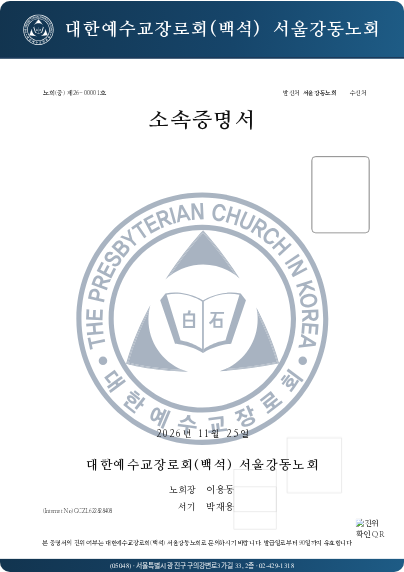
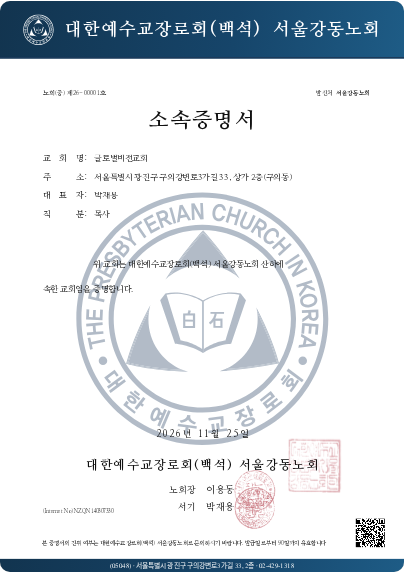
진위 확인 QR 두 배(30mm), 캐시 v79

diff --git a/index.html b/index.html
@@ -12,7 +12,7 @@
 <meta name="mobile-web-app-capable" content="yes">
 <meta name="apple-mobile-web-app-capable" content="yes">
 <meta name="apple-mobile-web-app-title" content="노회 문서">
-<link rel="stylesheet" href="assets/app.css?v=78">
+<link rel="stylesheet" href="assets/app.css?v=79">
 </head>
 <body>
 
@@ -979,11 +979,11 @@
 
 <div class="toast" id="toast" hidden></div>
 
-<script src="vendor/qrcode.js?v=78"></script>
-<script src="vendor/html2canvas.min.js?v=78"></script>
-<script src="assets/xlsx.js?v=78"></script>
-<script src="assets/app.js?v=78"></script>
-<script src="assets/notice.js?v=78"></script>
-<script src="assets/lock.js?v=78"></script>
+<script src="vendor/qrcode.js?v=79"></script>
+<script src="vendor/html2canvas.min.js?v=79"></script>
+<script src="assets/xlsx.js?v=79"></script>
+<script src="assets/app.js?v=79"></script>
+<script src="assets/notice.js?v=79"></script>
+<script src="assets/lock.js?v=79"></script>
 </body>
 </html>

diff --git a/assets/app.css b/assets/app.css
@@ -286,7 +286,7 @@ main{padding:14px 14px 0}
 .p-qrrow{display:flex;align-items:flex-end;gap:4mm;margin:2.4mm 10mm 0 22mm}
 .p-qrrow .note{margin:0;flex:1 1 auto;min-width:0;font-size:3.1mm;letter-spacing:.02mm;line-height:1.5;color:#1b1b1b;
   white-space:nowrap}
-.p-qr{width:15mm;height:15mm;flex:0 0 15mm;image-rendering:pixelated;display:block}
+.p-qr{width:30mm;height:30mm;flex:0 0 30mm;image-rendering:pixelated;display:block}
 .p-qr[hidden]{display:none}
 
 /* ---------------- 화면 쪽 조작 요소(직인·워터마크 고르기) ---------------- */

diff --git a/sw.js b/sw.js
@@ -3,7 +3,7 @@
    운동일지 앱(/Church/)과는 다른 사이트이므로 그쪽 캐시·화면은 건드리지 않는다.
    네트워크가 있으면 새 파일을 먼저 받아 두고, 없으면 받아 둔 사본으로 연다. */
 
-const CACHE = 'certificate-standalone-v78';
+const CACHE = 'certificate-standalone-v79';
 const SHELL = [
   './',
   './index.html',

diff --git a/dbg.py b/dbg.py
@@ -1,6 +1,6 @@
 from playwright.sync_api import sync_playwright
 import pathlib
-url='file://'+str(pathlib.Path('index.html').resolve())+'?v=77'
+url='file://'+str(pathlib.Path('index.html').resolve())+'?v=78'
 with sync_playwright() as p:
     b=p.chromium.launch(); pg=b.new_page(viewport={'width':1200,'height':1500})
     errs=[]
